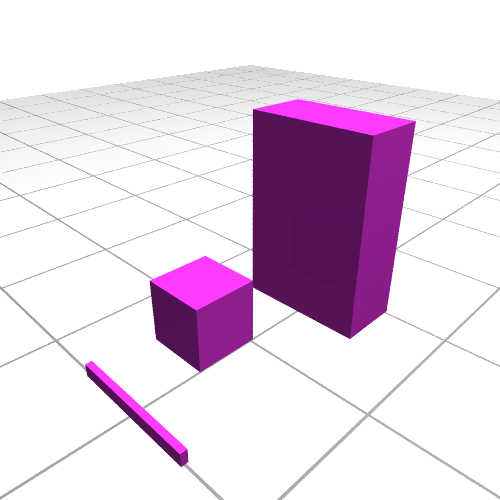
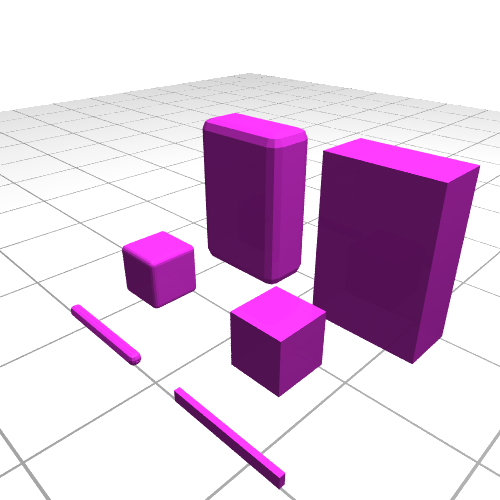
adding round: {false|true} for cube() and cylinder()

diff --git a/openscad.js b/openscad.js
@@ -1,7 +1,7 @@
 // openscad.js, a few functions to simplify coding OpenSCAD-like
 //    written by Rene K. Mueller <spiritdude@gmail.com>, License: GPLv2
 //
-// Version: 0.012
+// Version: 0.013
 //
 // Description:
 // Helping to convert OpenSCAD .scad files to OpenJSCad .jscad files with 
@@ -12,6 +12,7 @@
 //     http://openjscad.org/
 //
 // History:
+// 2013/04/04: 0.013: cube({round: true}), cylinder({round: true}) added
 // 2013/03/28: 0.012: rectangular_extrude() along 2d path, rotate_extrude() and torus() added
 // 2013/03/18: 0.011: import of STL (binary / ASCII), polyhedron() implemented, better blend between browser & nodejs
 // 2013/03/15: 0.010: circle(), square(), polygon() (partially) and linear_extrude() implemented
@@ -94,16 +95,22 @@ function intersection() {
 // -- 3D primitives (OpenSCAD like notion)
 
 function cube(p) { 
-   var s = 1, v = null, off = 0;
+   var s = 1, v = null, off = 0, round = false, r = 0, fn = 8;
    if(p&&p.length) v = p;		
    if(p&&p.size&&p.size.length) v = p.size;
    if(p&&p.size&&!p.size.length) s = p.size;
-   if(p&&!p.size&&!p.length&&p.center===undefined) s = p;
+   if(p&&!p.size&&!p.length&&p.center===undefined&&!p.round&&!p.radius) s = p;
    off = s/2;
    if(p&&p.center==true) off = 0;
-   var o = CSG.cube({radius:s/2});
-   if(off) o = o.translate([off,off,off]);
-   if(v&&v.length) o = o.scale(v);
+   if(p&&p.round==true) { round = true, r = v&&v.length?(v[0]+v[1]+v[2])/30:s/10}
+   if(p&&p.radius) { round = true, r = p.radius; }
+   if(p&&p.fn) fn = p.fn;
+
+   var x = s, y = s, z = s; 
+   if(v&&v.length) { x = v[0], y = v[1], z = v[2] }
+   var o = round?CSG.roundedCube({radius:[x/2,y/2,z/2], roundradius:r, resolution: fn}):CSG.cube({radius:[x/2,y/2,z/2]});
+   if(off) o = o.translate([x/2,y/2,z/2]);
+   //if(v&&v.length) o = o.scale(v);      // we don't scale afterwards, we already created box with the correct size
    return o;
 }
 
@@ -122,7 +129,7 @@ function sphere(p) {
 }
 
 function cylinder(p) {
-   var r1 = 1, r2 = 1, h = 1, fn = 32; var a = arguments;
+   var r1 = 1, r2 = 1, h = 1, fn = 32, round = false; var a = arguments;
    var zoff = 0;
    if(p&&p.r) {
       r1 = p.r; r2 = p.r; if(p.h) h = p.h;
@@ -135,11 +142,16 @@ function cylinder(p) {
    }
    if(p&&p.fn) fn = p.fn;
    if(p&&p.center==true) zoff = -h/2;
+   if(p&&p.round==true) round = true;
    var o;
    if(p&&(p.start&&p.end)) {
-      o = CSG.cylinder({start:p.start,end:p.end,radiusStart:r1,radiusEnd:r2,resolution:fn});
+      o = round?
+         CSG.roundedCylinder({start:p.start,end:p.end,radiusStart:r1,radiusEnd:r2,resolution:fn}):
+         CSG.cylinder({start:p.start,end:p.end,radiusStart:r1,radiusEnd:r2,resolution:fn});
    } else {
-      o = CSG.cylinder({start:[0,0,0],end:[0,0,h],radiusStart:r1,radiusEnd:r2,resolution:fn});
+      o = round?
+         CSG.roundedCylinder({start:[0,0,0],end:[0,0,h],radiusStart:r1,radiusEnd:r2,resolution:fn}):
+         CSG.cylinder({start:[0,0,0],end:[0,0,h],radiusStart:r1,radiusEnd:r2,resolution:fn});
       if(zoff) o = o.translate([0,0,zoff]);
    }
    return o;
